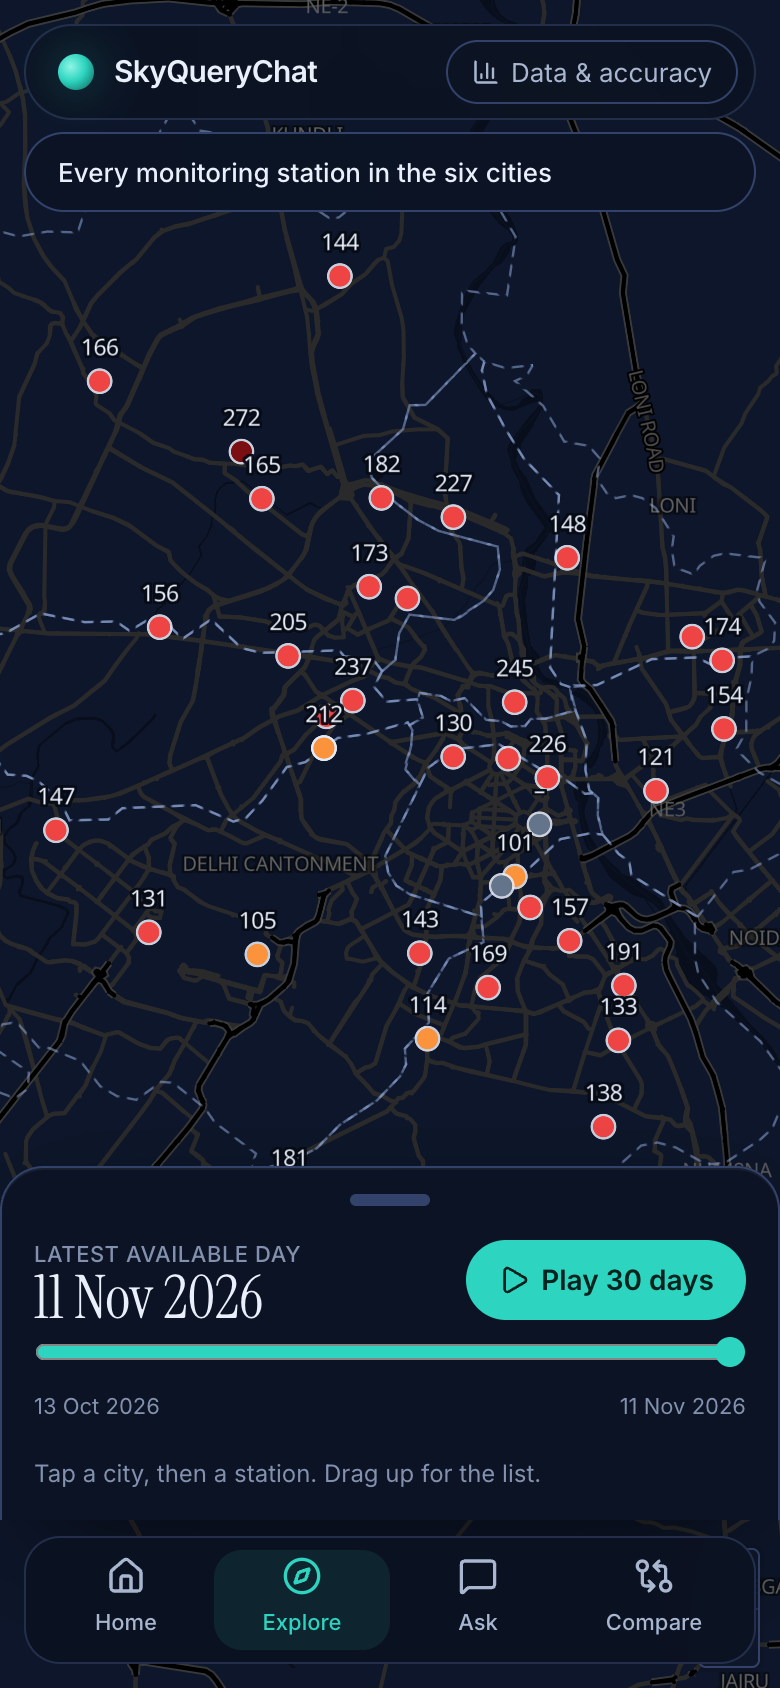
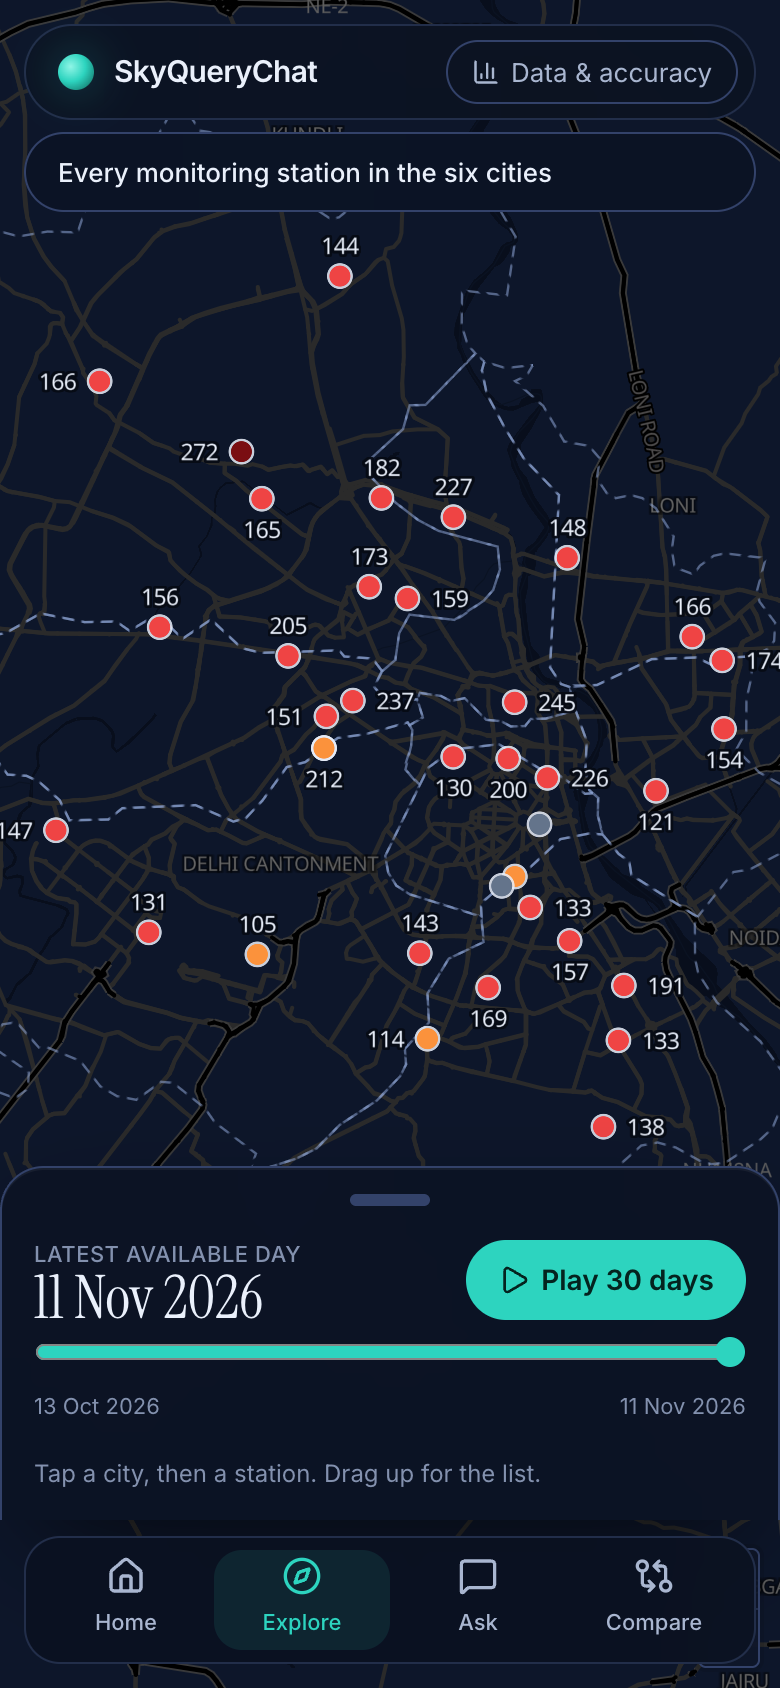
Keep Explore station labels clear of markers

diff --git a/frontend/src/components/explore/explore-map.tsx b/frontend/src/components/explore/explore-map.tsx
@@ -123,7 +123,7 @@ export function ExploreMap({ data, day, pollutant, city, station, highlight, low
         type: "Feature" as const,
         geometry: { type: "Point" as const, coordinates: [s.lon, s.lat] },
         properties: {
-          id: s.id, color: statusColour(st).bg, low: s.tier === "low_cost", value, rank: st.kind === "value" ? st.value : -1,
+          id: s.id, color: statusColour(st).bg, low: s.tier === "low_cost", value, hasValue: st.kind === "value", rank: st.kind === "value" ? st.value : -1,
           active: s.id === active || s.id === highlight, selected: s.id === station,
           name: `${shortName(s.name)}  ${st.kind === "value" ? value : "not enough data"}`,
         },
@@ -190,11 +190,18 @@ function addStationLayers(m: MLMap) {
   m.addLayer({ id: "st-diamond", type: "symbol", source: "stations", filter: ["get", "low"],
     layout: { "icon-image": "diamond", "icon-size": ["case", ["get", "active"], 1.2, 0.75], "icon-allow-overlap": true, "icon-ignore-placement": true },
     paint: { "icon-color": ["get", "color"], "icon-halo-color": ["case", ["get", "selected"], "#2DD4BF", "rgba(234,240,251,0.9)"], "icon-halo-width": 1.5 } });
-  // value labels only where they fit (MapLibre collision); higher values are placed first
-  m.addLayer({ id: "st-label", type: "symbol", source: "stations", filter: ["!", ["get", "active"]],
-    layout: { "text-field": ["get", "value"], "text-font": FONT, "text-size": 11.5, "text-offset": [0, -0.9],
-      "text-anchor": "bottom", "text-allow-overlap": false, "text-padding": 3, "symbol-sort-key": ["-", 0, ["get", "rank"]] },
+  // Value labels only where they fit (MapLibre collision), never on a dot: an invisible marker under every dot
+  // (layer "st-block", placed first because it sits above the labels) reserves that space. A label tries the
+  // spots around its own dot and is dropped if none is free. Grey stations (no 24-hour value) get no label;
+  // their status is in the hover label and the station panel. Higher values are placed first.
+  m.addLayer({ id: "st-label", type: "symbol", source: "stations", filter: ["all", ["!", ["get", "active"]], ["get", "hasValue"]],
+    layout: { "text-field": ["get", "value"], "text-font": FONT, "text-size": 11.5,
+      "text-variable-anchor": ["bottom", "top", "left", "right"], "text-radial-offset": 0.85, "text-justify": "auto",
+      "text-allow-overlap": false, "text-padding": 2, "symbol-sort-key": ["-", 0, ["get", "rank"]] },
     paint: { "text-color": "#EAF0FB", "text-halo-color": "rgba(6,10,20,0.95)", "text-halo-width": 1.6 } });
+  m.addImage("block", { width: 24, height: 24, data: new Uint8Array(24 * 24 * 4) }, { pixelRatio: 2 });
+  m.addLayer({ id: "st-block", type: "symbol", source: "stations",
+    layout: { "icon-image": "block", "icon-allow-overlap": true, "icon-ignore-placement": false, "icon-padding": 0 } });
   // the hovered or selected station is always labelled, with its name
   m.addLayer({ id: "st-active-label", type: "symbol", source: "stations", filter: ["get", "active"],
     layout: { "text-field": ["get", "name"], "text-font": FONT, "text-size": 13, "text-offset": [0, -1.3],
